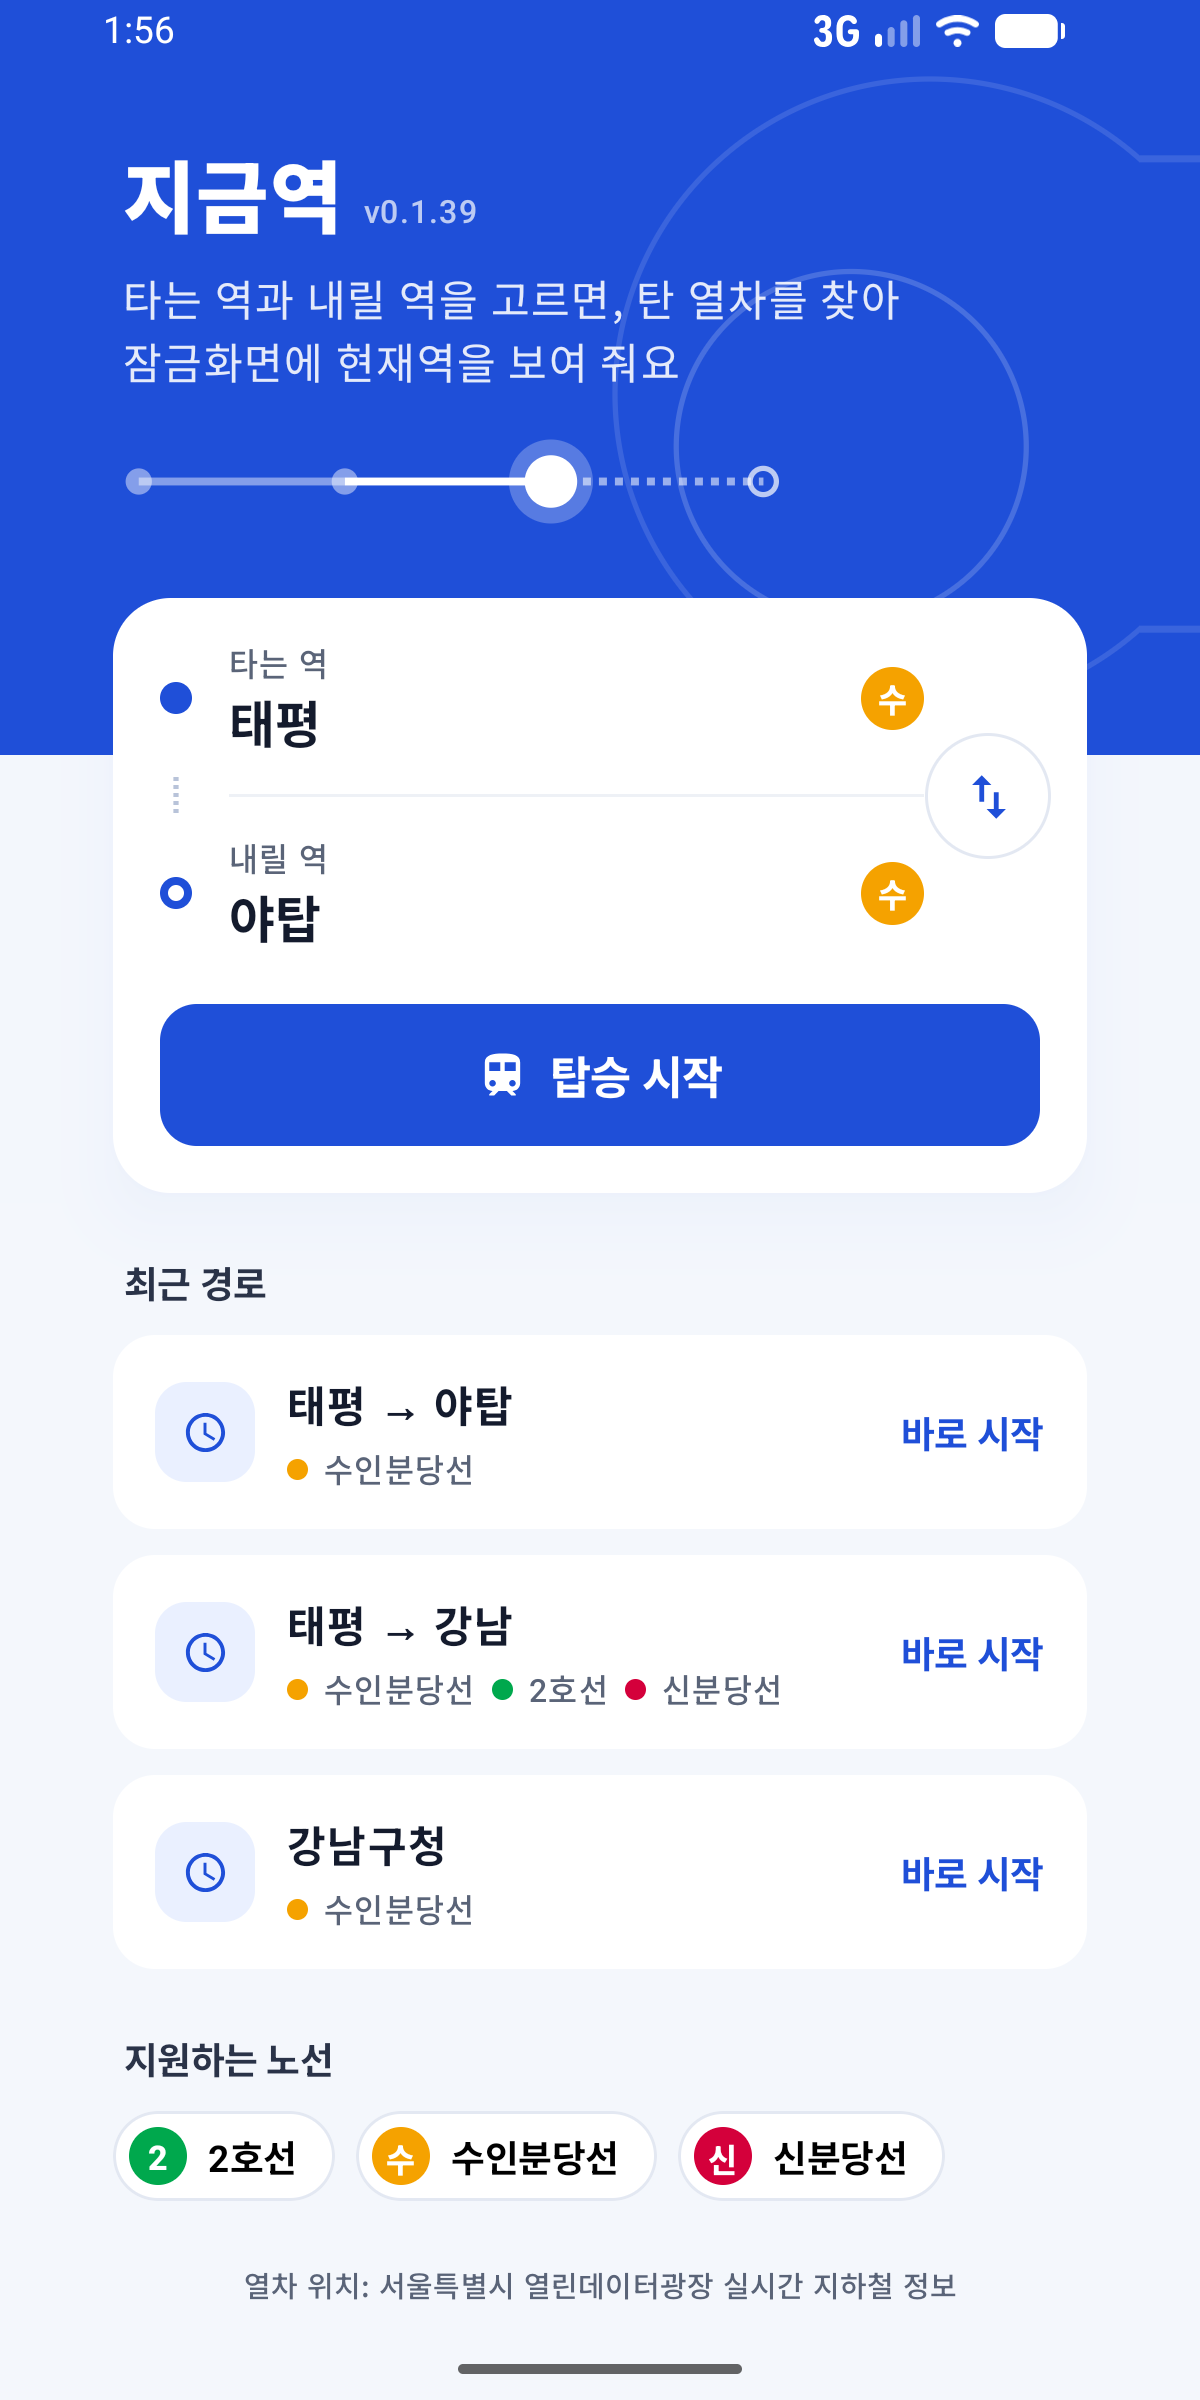
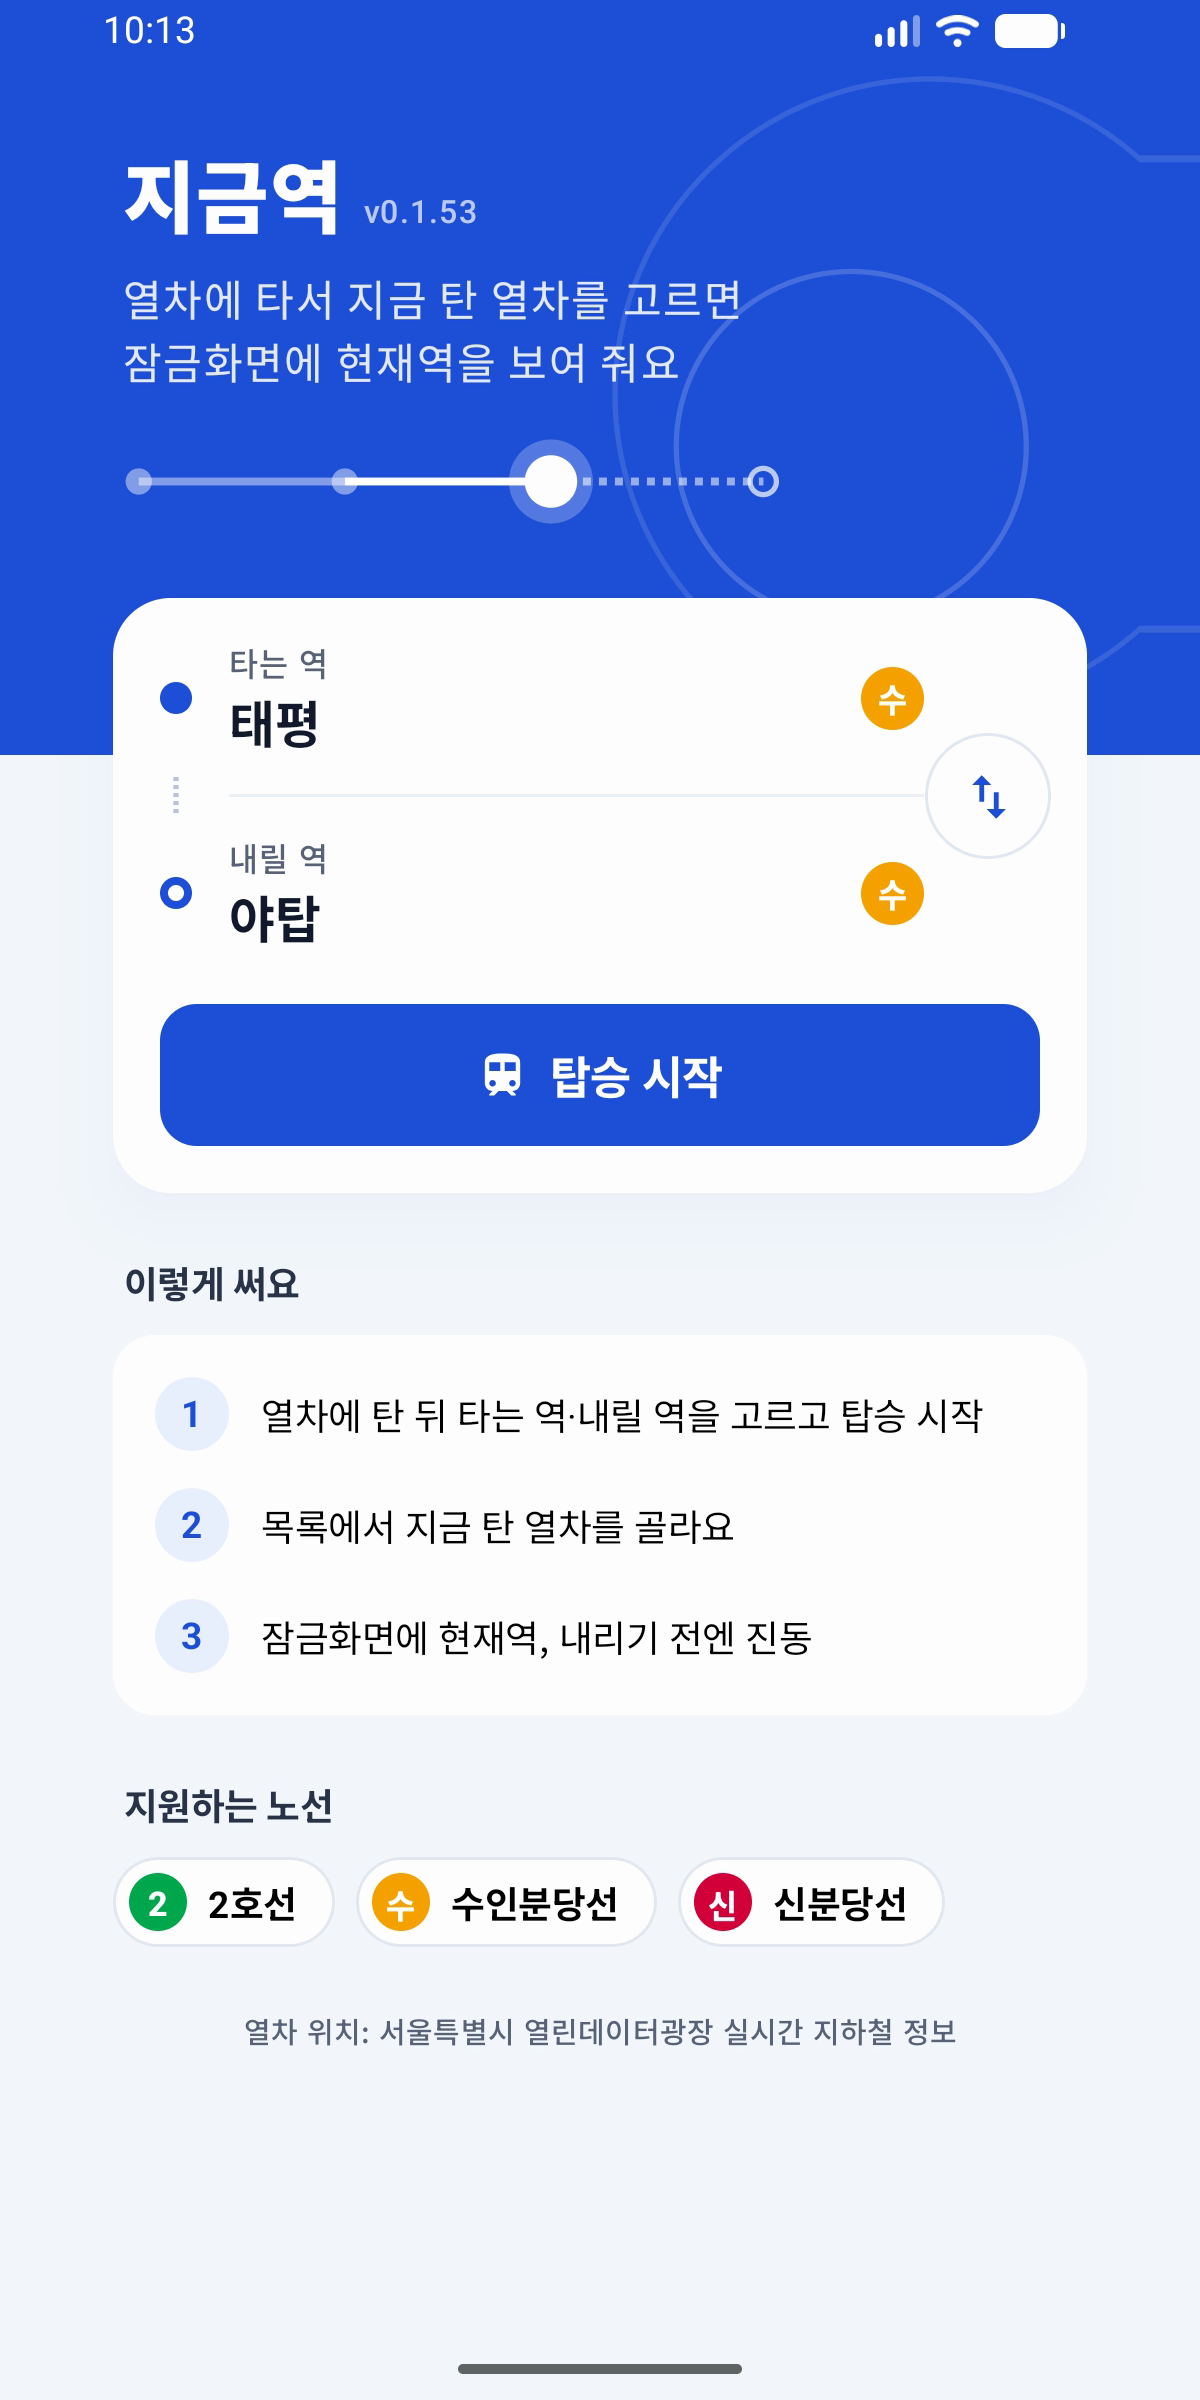
스토어 자료를 새 앱으로: 스크린숏 8장(홈, 역 검색, 들어오는 열차 고르기, 탑승 중 한 정거장 전 띠, 내릴 준비, 다른 화면 위 알림, 잠금화면, 알림창 도착)과 설명(탈 열차 고르기, 최종 목적지까지 남은 정거장, 갈아타기 안내), 출시 노트·출시 전 주의(실기기 시험 현황)
스크린숏은 태평→야탑 녹화 재생 + 에뮬레이터, 1080×2400을 양옆 늘려 1200×2400(Play 2:1)

diff --git a/docs/store/PLAY_STORE.md b/docs/store/PLAY_STORE.md
@@ -14,33 +14,34 @@
 
 **간단한 설명(80자):**
 ```
-시작만 누르면 앱을 안 봐도 지금 역·다음 역을 알려 주고, 내릴 역 직전에 진동으로 깨워 줘요
+탈 열차를 고르면 앱을 안 봐도 이번 역과 남은 정거장을 알려 주고, 내릴 역 전에 깨워 줘요
 ```
 
 **자세한 설명(4000자):**
 ```
 사람이 많아 안내 화면이 안 보일 때, 이어폰 때문에 방송을 못 들었을 때, 폰만 보면 지금 무슨 역인지 알 수 있어요.
 
-■ 시작만 누르면 끝
-타는 역을 고르고 시작을 누르세요. 내릴 역은 골라도 되고 안 골라도 돼요.
-어느 열차를 탈지 미리 정할 필요가 없어요. 열차가 출발하는 순간 폰의 움직임과 실시간 열차 위치를 맞춰, 실제로 탄 열차를 찾아 따라가요.
+■ 탈 열차를 고르면 끝
+타는 역과 내릴 역을 고르고 시작을 누르세요. 갈아타는 길은 앱이 정해요(예: 태평 → 선릉에서 2호선 → 강남).
+승강장 전광판처럼 내 역으로 들어오는 열차가 "[2]번째 전역 (야탑) · 약 4분"으로 보이고, 다음에 들어올 열차를 미리 골라 둬요. 다른 열차를 탔다면 목록에서 눌러 바꾸세요.
 
-■ 실제 운행 그대로
-- 열차를 놓쳐도: 놓친 열차는 따라가지 않고, 다음에 탄 열차를 찾아요
-- 역 사이에서 멈춰도: "역 사이에서 잠시 정차 중"으로 그대로 보여 줘요
-- 갈아타도: 내린 역에서 다음에 탄 열차를 다시 찾아요
+■ 탄 열차를 끝까지 따라가요
+- 이번 역과 내릴 역까지 남은 정거장("강남까지 8정거장")을 계속 바꿔 보여 줘요
+- 갈아탈 역 한 정거장 전에는 "다음 역 선릉 · 2호선으로 갈아타세요", 내리면 다음 노선 열차를 골라 둬요
+- 내릴 역 한 정거장 전에 진동과 알림, 다다르면 화면 전체로 알려 줘요
+- 역 사이에서 멈추면 "역 사이에서 잠시 정차 중"으로 그대로 보여 줘요
 
 ■ 앱을 안 봐도
-- 잠금화면과 알림창에 이번 역·다음 역이 계속 바뀌어요
+- 잠금화면과 알림창에 이번 역·남은 정거장이 계속 바뀌어요
 - Android 16 이상은 상태 표시줄 왼쪽 위에 이번 역 이름이 떠요
-- 내릴 역 직전에 다른 앱 위로 알림이 내려오고 진동이 울려요(무음 모드에서도)
+- 내릴 역 전에 다른 앱 위로 알림이 내려오고 진동이 울려요(무음 모드에서도)
 
 ■ 지원 노선
 2호선, 수인분당선, 신분당선 (계속 늘려 갈게요)
 
 ■ 알아 두세요
-- 서울시 실시간 열차 위치 정보를 쓰며, 이 정보는 실제보다 30초~1분 늦을 수 있어요
-- GPS(위치 권한)는 쓰지 않아요. 지하에서는 GPS가 잘 안 잡히기 때문에, 폰의 움직임(출발·정차 순간)만 써요
+- 서울시 실시간 열차 위치 정보를 쓰며, 이 정보는 실제보다 30초~1분 늦을 수 있어요. 타고 있는 동안에는 폰의 움직임(출발·정차 순간)도 함께 써서 늦는 만큼을 메워요
+- GPS(위치 권한)는 쓰지 않아요. 지하에서는 GPS가 잘 안 잡혀요
 - 회원가입 없이 바로 쓸 수 있어요
 
 열차 위치 정보 출처: 서울특별시 열린데이터광장 실시간 지하철 정보
@@ -51,7 +52,7 @@
 |---|---|
 | 앱 아이콘 512×512 | `icon-512.png` |
 | 그래픽 이미지 1024×500 | `feature-1024x500.png` |
-| 휴대전화 스크린샷(1200×2400, 2:1, 이 순서로) | `phone-1-home.png` 홈 · `phone-2-search.png` 역 검색 · `phone-3-riding.png` 탑승 중 · `phone-4-alight.png` 내릴 준비 · `phone-5-over-app.png` 다른 앱 위 알림 · `phone-6-lockscreen.png` 잠금화면 · `phone-7-shade.png` 알림창 |
+| 휴대전화 스크린샷(1200×2400, 2:1, 이 순서로 8장) | `phone-1-home.png` 홈 · `phone-2-search.png` 역 검색 · `phone-3-incoming.png` 들어오는 열차 고르기 · `phone-4-riding.png` 탑승 중(한 정거장 전 띠) · `phone-5-alight.png` 내릴 준비 · `phone-6-over-app.png` 다른 화면 위 알림 · `phone-7-lockscreen.png` 잠금화면 · `phone-8-shade.png` 알림창(도착) |
 
 **분류:** 앱 카테고리 `지도/내비게이션`, 태그는 대중교통 관련
 
@@ -92,10 +93,11 @@
   - 파일 위치: `app/build/outputs/bundle/release/app-release.aab`
   - 만드는 법: `./gradlew bundleRelease` (local.properties에 https `API_BASE_URL`과 `RELEASE_*` 서명 값이 있어야 함)
 - **Play 앱 서명** 사용(기본값). 우리가 가진 키는 "업로드 키"이고, 실제 배포 서명은 Google이 보관
-- 출시 노트: `첫 버전: 2호선·수인분당선·신분당선 현재역·다음역, 내릴 역 알림`
+- 출시 노트: `첫 버전: 2호선·수인분당선·신분당선. 들어오는 열차를 골라 따라가며 이번 역·남은 정거장, 갈아타기 안내, 내릴 역 알림`
 - 국가: 대한민국
 
 ## 출시 전에 알고 있어야 할 것
-- **실기기로 움직임 감지를 확인하지 못했습니다.** 먼저 "내부 테스트"로 올려 실기기 몇 대로 수인분당선·2호선을 타 보고 프로덕션으로 올리기를 권합니다.
+- **Android 실기기로는 아직 타 보지 않았습니다.** 같은 서버·규칙으로 iOS 실기기 시험(수인분당선 태평 → 야탑)을 했고, Android는 녹화 재생 + 에뮬레이터로만 확인했습니다. 먼저 "내부 테스트"로 올려 실기기 몇 대로 타 보고 프로덕션으로 올리기를 권합니다.
+- 화면 사진은 2026-11-16 오전 녹화 열차 데이터를 재생 서버로 흘려 에뮬레이터에서 찍었습니다(열차 번호·위치는 그날 실제 값).
 - **서울시 실시간 API는 하루 1,000건**입니다. 한 노선을 15초마다 받으면 약 4시간분이라, 사용자가 늘면 열린데이터광장에 호출 한도 상향을 신청해야 합니다. 한도가 얼마 안 남으면 서버가 간격을 늘리고(최대 1분), 다 쓰면 그날은 "열차 소식을 기다리는 중"으로 보입니다.
 - 서버 주소는 고정 IP가 들어간 무료 주소입니다. EC2의 탄력적 IP를 풀면 주소가 바뀌어 **이미 설치된 앱이 서버에 닿지 못합니다.** 탄력적 IP는 계속 유지하세요.
